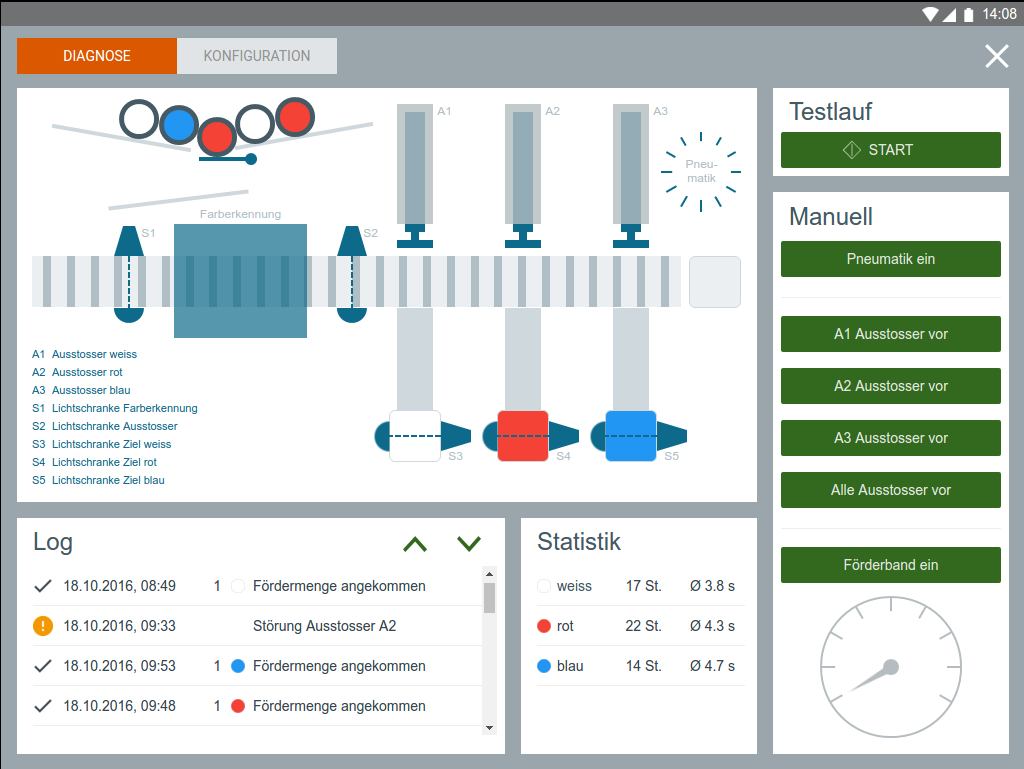
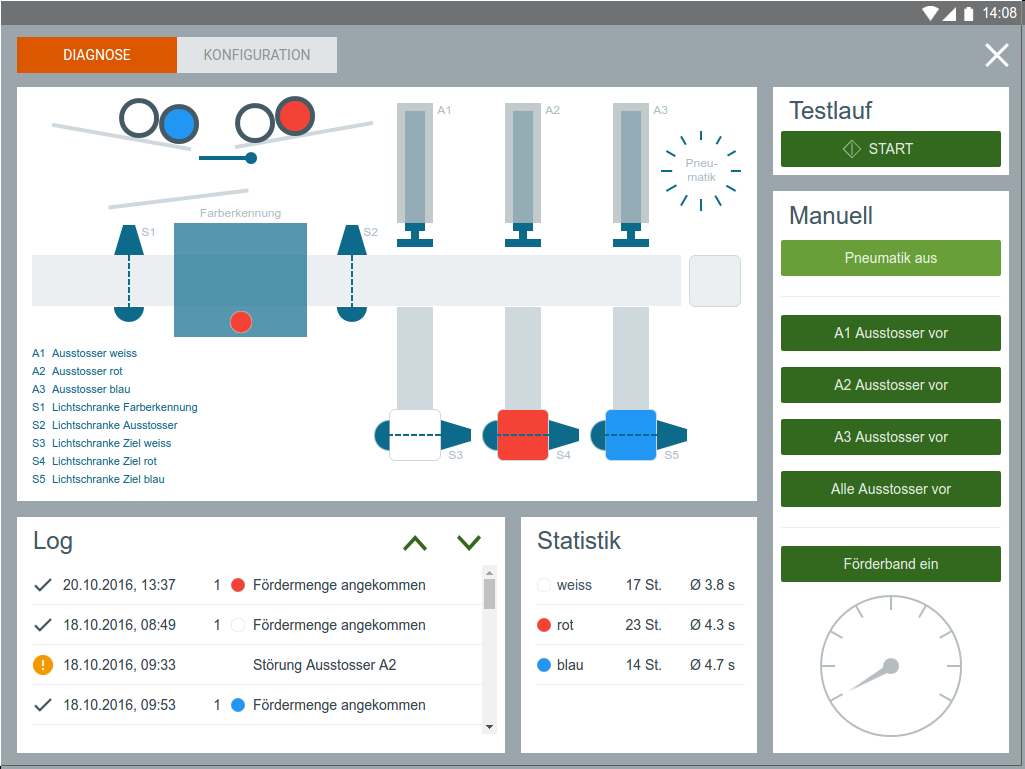
Fixed Diagnostic Screen TestControlBar

diff --git a/qml/controls/TestControl.qml b/qml/controls/TestControl.qml
@@ -30,8 +30,20 @@ Rectangle {
             id: pneumaticPumpButton
             checkable: true
             scale: checked ? 0.95 : 1.0
-            text: checked ? qsTr("Peumatik") + " " + qsTr("aus") : qsTr("Peumatik") + " " + qsTr("ein")
-            font.pixelSize: Style.controlFontSize
+
+            background: Rectangle{
+                color: pneumaticPumpButton.checked ? Style.btnChecked : Style.btnUnchecked
+                anchors.fill: parent
+            }
+
+            contentItem: Text{
+                color: "white"
+                text: pneumaticPumpButton.checked ? qsTr("Peumatik") + " " + qsTr("aus") : qsTr("Peumatik") + " " + qsTr("ein")
+                anchors.fill: pneumaticPumpButton
+                font.pixelSize: Style.controlFontSize
+                horizontalAlignment: Text.AlignHCenter
+                verticalAlignment: Text.AlignVCenter
+            }
 
             Layout.preferredHeight: parent.height/14
             Layout.preferredWidth: parent.width
@@ -59,12 +71,26 @@ Rectangle {
             enabled: simulator.ejectorOne.state === "idle" && websocketClient.compressorRunning
             onPressed: scale=0.95
             onReleased: scale=1.0
+            background: Rectangle{
+                color: pushEjectorOneButton.pressed ? Style.btnChecked : Style.btnUnchecked
+                anchors.fill: parent
+            }
+
+            contentItem: Text{
+                color: "white"
+                text: "A1" + " " + qsTr("Ausstosser")
+                anchors.fill: pushEjectorOneButton
+                font.pixelSize: Style.controlFontSize
+                horizontalAlignment: Text.AlignHCenter
+                verticalAlignment: Text.AlignVCenter
+            }
 
             Layout.preferredHeight: parent.height/14
             Layout.preferredWidth: parent.width
             Layout.alignment: Qt.AlignTop | Qt.AlignLeft
 
             onClicked: { websocketClient.ejectValve(1) }
+            onEnabledChanged: {if(enabled) opacity=1; else opacity=0.5}
         }
 
         Button {
@@ -73,12 +99,26 @@ Rectangle {
             enabled: simulator.ejectorTwo.state === "idle" && websocketClient.compressorRunning
             onPressed: scale=0.95
             onReleased: scale=1.0
+            background: Rectangle{
+                color: pushEjectorTwoButton.pressed ? Style.btnChecked : Style.btnUnchecked
+                anchors.fill: parent
+            }
+
+            contentItem: Text{
+                color: "white"
+                text: "A2" + " " + qsTr("Ausstosser")
+                anchors.fill: pushEjectorTwoButton
+                font.pixelSize: Style.controlFontSize
+                horizontalAlignment: Text.AlignHCenter
+                verticalAlignment: Text.AlignVCenter
+            }
 
             Layout.preferredHeight: parent.height/14
             Layout.preferredWidth: parent.width
             Layout.alignment: Qt.AlignTop | Qt.AlignLeft
 
             onClicked: { websocketClient.ejectValve(2) }
+            onEnabledChanged: {if(enabled) opacity=1; else opacity=0.5}
         }
 
         Button {
@@ -87,26 +127,54 @@ Rectangle {
             enabled: simulator.ejectorThree.state === "idle" && websocketClient.compressorRunning
             onPressed: scale=0.95
             onReleased: scale=1.0
+            background: Rectangle{
+                color: pushEjectorThreeButton.pressed ? Style.btnChecked : Style.btnUnchecked
+                anchors.fill: parent
+            }
+
+            contentItem: Text{
+                color: "white"
+                text: "A3" + " " + qsTr("Ausstosser")
+                anchors.fill: pushEjectorThreeButton
+                font.pixelSize: Style.controlFontSize
+                horizontalAlignment: Text.AlignHCenter
+                verticalAlignment: Text.AlignVCenter
+            }
 
             Layout.preferredHeight: parent.height/14
             Layout.preferredWidth: parent.width
             Layout.alignment: Qt.AlignTop | Qt.AlignLeft
 
             onClicked: { websocketClient.ejectValve(3) }
+            onEnabledChanged: {if(pushEjectorThreeButton.enabled) pushEjectorThreeButton.opacity=1; else pushEjectorThreeButton.opacity=0.5}
         }
 
         Button {
             id: pushAllEjectorButton
             text: "Alle" + " " + qsTr("Ausstosser")
-            enabled: simulator.ejectorThree.state === "idle" && websocketClient.compressorRunning
+            enabled:  websocketClient.compressorRunning
             onPressed: scale=0.95
             onReleased: scale=1.0
+            background: Rectangle{
+                color: pushAllEjectorButton.pressed ? Style.btnChecked : Style.btnUnchecked
+                anchors.fill: parent
+            }
+
+            contentItem: Text{
+                color: "white"
+                text: "Alle" + " " + qsTr("Ausstosser")
+                anchors.fill: pushAllEjectorButton
+                font.pixelSize: Style.controlFontSize
+                horizontalAlignment: Text.AlignHCenter
+                verticalAlignment: Text.AlignVCenter
+            }
 
             Layout.preferredHeight: parent.height/14
             Layout.preferredWidth: parent.width
             Layout.alignment: Qt.AlignTop | Qt.AlignLeft
 
             onClicked: { websocketClient.ejectValve(1);websocketClient.ejectValve(2);websocketClient.ejectValve(3) }
+            onEnabledChanged: {if(pushAllEjectorButton.enabled) pushAllEjectorButton.opacity=1; else pushAllEjectorButton.opacity=0.5}
         }
 
         Rectangle {
@@ -126,6 +194,19 @@ Rectangle {
             scale: checked ? 0.95 : 1.0
             text: checked ? qsTr("Förderband") + " " + qsTr("aus") : qsTr("Förderband") + " " + qsTr("ein")
             font.pixelSize: Style.controlFontSize
+            background: Rectangle{
+                color: conveyorMotorButton.checked ? Style.btnChecked : Style.btnUnchecked
+                anchors.fill: parent
+            }
+
+            contentItem: Text{
+                color: "white"
+                text: conveyorMotorButton.checked ? qsTr("Förderband") + " " + qsTr("aus") : qsTr("Förderband") + " " + qsTr("ein")
+                anchors.fill: conveyorMotorButton
+                font.pixelSize: Style.controlFontSize
+                horizontalAlignment: Text.AlignHCenter
+                verticalAlignment: Text.AlignVCenter
+            }
 
             Layout.preferredHeight: parent.height/14
             Layout.preferredWidth: parent.width

diff --git a/qml/Style.qml b/qml/Style.qml
@@ -10,5 +10,7 @@ QtObject {
     property int titleFontSize:     24
     property int controlFontSize:   14
 
-    property color textColor: "#0e6a8b"
+    property color textColor:    "#0e6a8b"
+    property color btnChecked:   "#689f38"
+    property color btnUnchecked: "green"
 }
